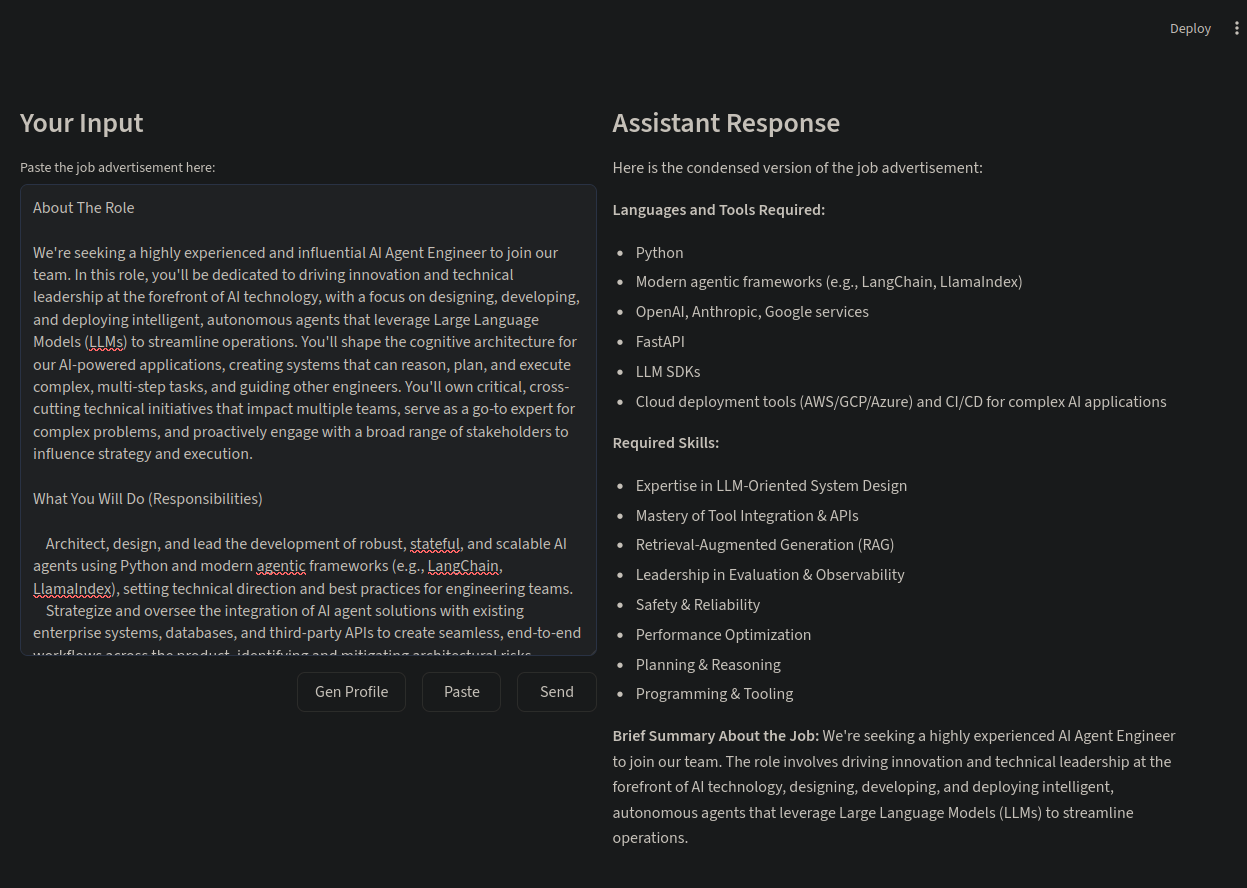
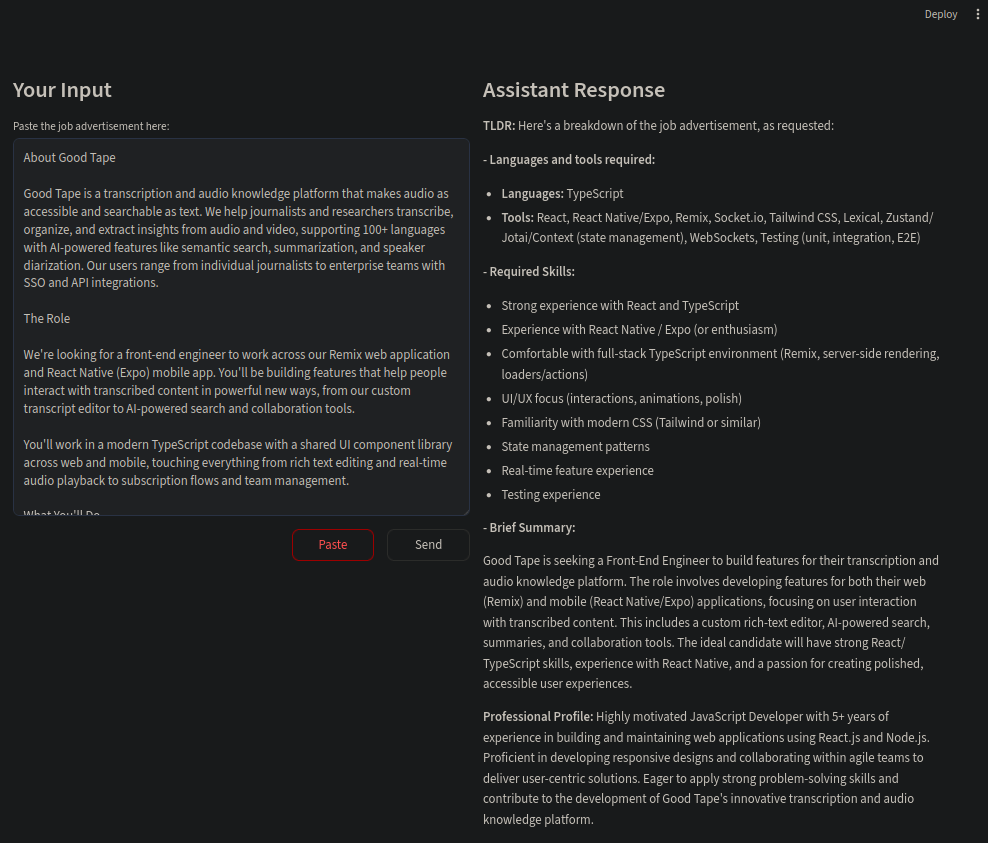
chore: update LLM model, input data, README
update

diff --git a/src/main.py b/src/main.py
@@ -6,7 +6,7 @@ import streamlit as st
 import pyperclipfix
 
 
-def initialize_llm(model: str = "llama3.2:3b", temperature: float = 0.0) -> ChatOllama:
+def initialize_llm(model: str = "gemma3n:e4b", temperature: float = 0.0) -> ChatOllama:
     """Initialize the Ollama language model.
 
     Args:
@@ -122,7 +122,6 @@ def main(
     LLM_MODEL: str, CV: str, TLDR_BOT_INSTRUCTIONS: str, PROFILE_BOT_INSTRUCTIONS: str
 ) -> None:
     try:
-
         st.set_page_config(
             page_title="LLM Job tools",
             layout="wide",
@@ -145,23 +144,10 @@ def main(
                 key="text_area",
             )
 
-            spacer, button_col1, button_col2, button_col3 = st.columns([9, 4, 3, 3])
+            spacer, button_col2, button_col3 = st.columns([9, 3, 3])
 
             with spacer:
                 pass  # Empty space to push buttons right
-
-            with button_col1:
-                if st.button("Gen Profile", use_container_width=True):
-                    if st.session_state.prompt == "":
-                        pass
-                    else:
-                        if prompt:
-                            full_response = generate_professional_profile(
-                                LLM_MODEL, prompt, CV, PROFILE_BOT_INSTRUCTIONS
-                            )
-                            # st.session_state.response = full_response + + "\n\n---\n\n" + st.session_state.response
-                            st.session_state.response = f"{full_response}\n\n### Previous Responses\n\n{st.session_state.response}"
-                            st.rerun()
 
             with button_col2:
                 if st.button("Paste", use_container_width=True):
@@ -169,12 +155,18 @@ def main(
                         clipboard_content = pyperclipfix.paste()
                         st.session_state.prompt = clipboard_content
                         if st.session_state.prompt:
-                            full_response = generate_tldr(
+                            tldr_response = generate_tldr(
                                 LLM_MODEL,
                                 st.session_state.prompt,
                                 TLDR_BOT_INSTRUCTIONS,
                             )
-                            st.session_state.response = full_response
+                            profile_response = generate_professional_profile(
+                                LLM_MODEL,
+                                st.session_state.prompt,
+                                CV,
+                                PROFILE_BOT_INSTRUCTIONS,
+                            )
+                            st.session_state.response = f"**TLDR:**\n{tldr_response}\n\n**Professional Profile:**\n{profile_response}"
                         st.rerun()
                     except Exception as e:
                         st.error(f"Failed to paste from clipboard: {str(e)}")
@@ -182,10 +174,13 @@ def main(
             with button_col3:
                 if st.button("Send", use_container_width=True):
                     if prompt:
-                        full_response = generate_tldr(
+                        tldr_response = generate_tldr(
                             LLM_MODEL, prompt, TLDR_BOT_INSTRUCTIONS
                         )
-                        st.session_state.response = full_response
+                        profile_response = generate_professional_profile(
+                            LLM_MODEL, prompt, CV, PROFILE_BOT_INSTRUCTIONS
+                        )
+                        st.session_state.response = f"**TLDR:**\n{tldr_response}\n\n**Professional Profile:**\n{profile_response}"
                         st.rerun()
 
         with col2:
@@ -216,6 +211,6 @@ if __name__ == "__main__":
     # """
 
     CV = "src/INPUT.txt"
-    LLM_MODEL = "llama3.2:3b"
+    LLM_MODEL = "gemma3n:e4b"
 
     main(LLM_MODEL, CV, TLDR_BOT_INSTRUCTIONS, PROFILE_BOT_INSTRUCTIONS)

diff --git a/README.md b/README.md
@@ -1,17 +1,17 @@
 # Job Advertisement Processing Tool
 
-This is a Python script that utilizes `langchain_core` and `streamlit` libraries to process job advertisements using Ollama. The tool allows users to paste job ad text or import it from a clipboard and generate either a TLDR summary of the job ad or a professional profile paragraph for their CV.
+This is a Python script that utilizes `langchain_core` and `streamlit` libraries to process job advertisements using Ollama. The tool allows users to paste job advertisement text or import it from a clipboard and generates a TLDR summary of the job ad and a professional profile paragraph for their CV using the input from INPUT.txt.
 
 ## Features
 
-- **TLDR Summary**: Summarizes lengthy job ads into concise sections, including required languages/tools, skills, and a brief job summary.
+- **TLDR Summary**: Summarizes lengthy job ads.
 - **Professional Profile Paragraph**: Attempts to generate a professional profile paragraph using the information inserted into INPUT.txt
 - **User Interface**: Built with Streamlit for an intuitive and user-friendly interface.
 
 ## Requirements
 
 - Ollama running locally
-- llama3.2:3b model downloaded
+- gemma3n:e4b model downloaded
 
 ## Usage
 
@@ -33,10 +33,7 @@ To make streamlit not share statistics:
 
 4. The Streamlit app will open in your web browser.
 
-5. Input or paste the text into the text field and press Send for it to be processed by the LLM.
-Button actions:
-   - **Send**: Sends the current text area content for processing.
-   - **Paste**: Pastes content from your clipboard.
-   - **Gen Profile**: Generates a professional profile paragraph for your CV (might fail if clipboard manager is not setup (ex: missing xclip or wl-clipboard), will not attempt if job advertisement was previously sent).
+5. Input job ad and click "Send" or click "Paste".
 
 ![Example](./Example.png) 
+
